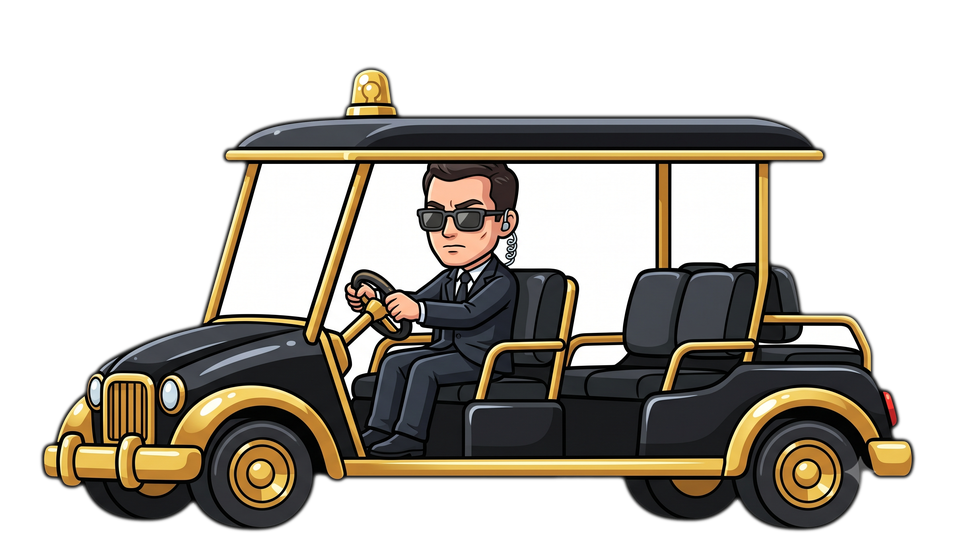
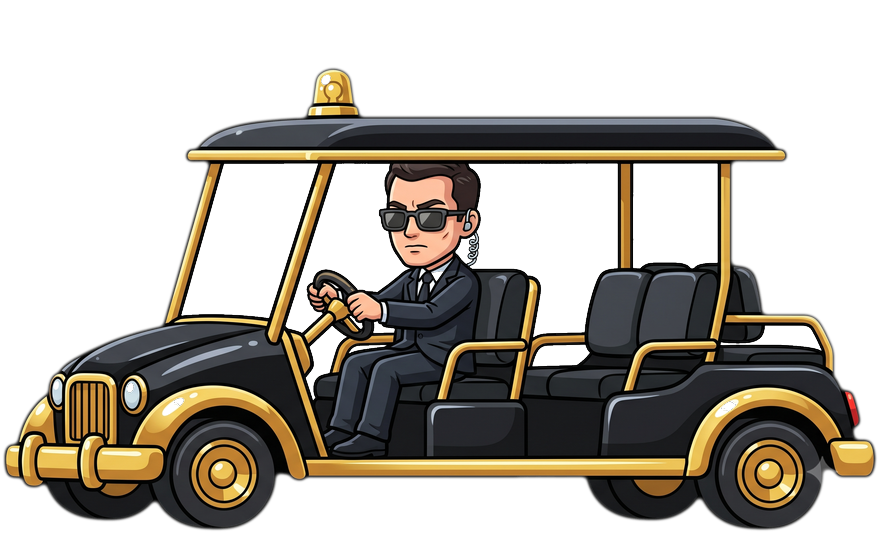
Corrige le détourage du caddy et le place en retrait au centre.
Trous blancs intérieurs retirés ; sprite plus petit près des barrières de la Maison Blanche.

Changed region(s): [[0.0, 0.1194, 1.0, 1.0]]

diff --git a/src/scenery.js b/src/scenery.js
@@ -206,7 +206,7 @@ let mapEvent = {
   timer: 0,
   x: 0, y: 0, vx: 0, vy: 0,
   hit: false,
-  cartX: 110,
+  cartX: 450,
   cartDir: 1,
   zoneX: 0,
   zoneW: 150,
@@ -219,7 +219,7 @@ function resetMapEvent() {
   mapEvent.timer = 900 + Math.floor(rng() * 900); // 1er event un peu plus tôt (~15–30 s)
   mapEvent.x = mapEvent.y = mapEvent.vx = mapEvent.vy = 0;
   mapEvent.hit = false;
-  mapEvent.cartX = 110;
+  mapEvent.cartX = W * 0.5;
   mapEvent.cartDir = 1;
   mapEvent.zoneX = 0;
   mapEvent.zoneW = 150;
@@ -232,8 +232,8 @@ function scheduleNextMapEvent() {
   mapEvent.timer = 1200 + Math.floor(rng() * 1200); // 20–40 s
   mapEvent.x = mapEvent.y = mapEvent.vx = mapEvent.vy = 0;
   mapEvent.hit = false;
-  // Resort : sorti à droite → rentrée douce depuis la gauche (pas de téléport visible)
-  mapEvent.cartX = (mapEventKind() === "cart") ? (W + 90) : -90;
+  // Resort : reste au centre (près des barrières) — pas de téléport hors écran
+  mapEvent.cartX = W * 0.5;
   mapEvent.cartDir = 1;
   mapEvent.zoneX = 0;
   mapEvent.balls = [];
@@ -244,21 +244,14 @@ function stepCartIdleMotion() {
   if (mapEventKind() !== "cart") return;
   if (mapEvent.phase !== "idle") return;
   if (mapEvent.cartDir !== 1 && mapEvent.cartDir !== -1) mapEvent.cartDir = 1;
-  // hors écran à droite → wrap invisible à gauche
-  if (mapEvent.cartX > W + 50) {
-    mapEvent.cartX = -90;
-    mapEvent.cartDir = 1;
-  }
-  // rentrée progressive
-  if (mapEvent.cartX < 90) {
-    mapEvent.cartX += 0.95;
-    mapEvent.cartDir = 1;
-    return;
-  }
-  // va-et-vient lent devant les palmiers
-  mapEvent.cartX += mapEvent.cartDir * 0.42;
-  if (mapEvent.cartX > 210) mapEvent.cartDir = -1;
-  if (mapEvent.cartX < 90) mapEvent.cartDir = 1;
+  // Va-et-vient lent au milieu, près des barrières (pas au premier plan)
+  const lo = W * 0.5 - 100;
+  const hi = W * 0.5 + 100;
+  if (mapEvent.cartX < lo) { mapEvent.cartX = lo; mapEvent.cartDir = 1; }
+  if (mapEvent.cartX > hi) { mapEvent.cartX = hi; mapEvent.cartDir = -1; }
+  mapEvent.cartX += mapEvent.cartDir * 0.28;
+  if (mapEvent.cartX > hi) mapEvent.cartDir = -1;
+  if (mapEvent.cartX < lo) mapEvent.cartDir = 1;
 }
 
 function mapEventKind() {
@@ -346,7 +339,7 @@ function stepMapEvent() {
       mapEvent.t = 0;
       mapEvent.hit = false;
       mapEvent.balls = [];
-      if (mapEvent.cartX < 0 || mapEvent.cartX > W) mapEvent.cartX = 110;
+      if (mapEvent.cartX < 0 || mapEvent.cartX > W) mapEvent.cartX = W * 0.5;
     }
     // décor : le caddie continue de patrouiller même en mode calme
     if (state === "play" || state === "serve") stepCartIdleMotion();

diff --git a/src/terrains.js b/src/terrains.js
@@ -136,13 +136,15 @@ function drawResortCart(t) {
   const horn = !mapEventsQuiet &&
     (mapEvent.phase === "fire" || (mapEvent.phase === "flying" && mapEvent.t < 18));
   const img = horn && spriteReady(p.cartHorn) ? p.cartHorn : p.cart;
-  // fondu aux bords pour éviter l'apparition/disparition sèche
+  // Plus petit + plus loin (ligne des barrières Maison Blanche), pas au premier plan
+  const footY = GROUND_Y - 62;
+  const drawH = 42;
   let a = 1;
   if (cx < 50) a = Math.max(0, (cx + 70) / 120);
   if (cx > W - 50) a = Math.min(a, Math.max(0, (W + 70 - cx) / 120));
   ctx.save();
-  ctx.globalAlpha = a;
-  drawMapProp(img, cx, GROUND_Y + 2, 92);
+  ctx.globalAlpha = a * 0.95;
+  drawMapProp(img, cx, footY, drawH);
   ctx.restore();
 }
 
